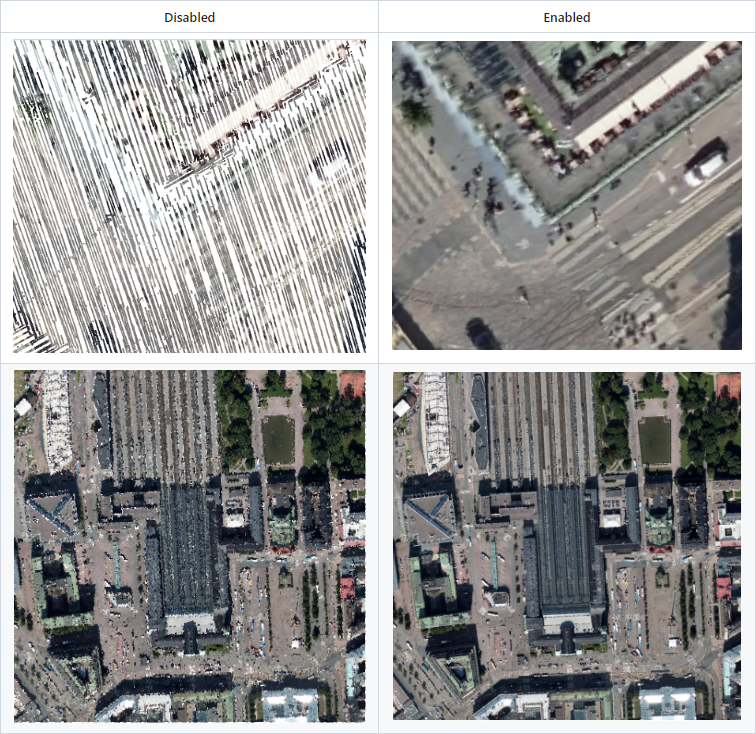
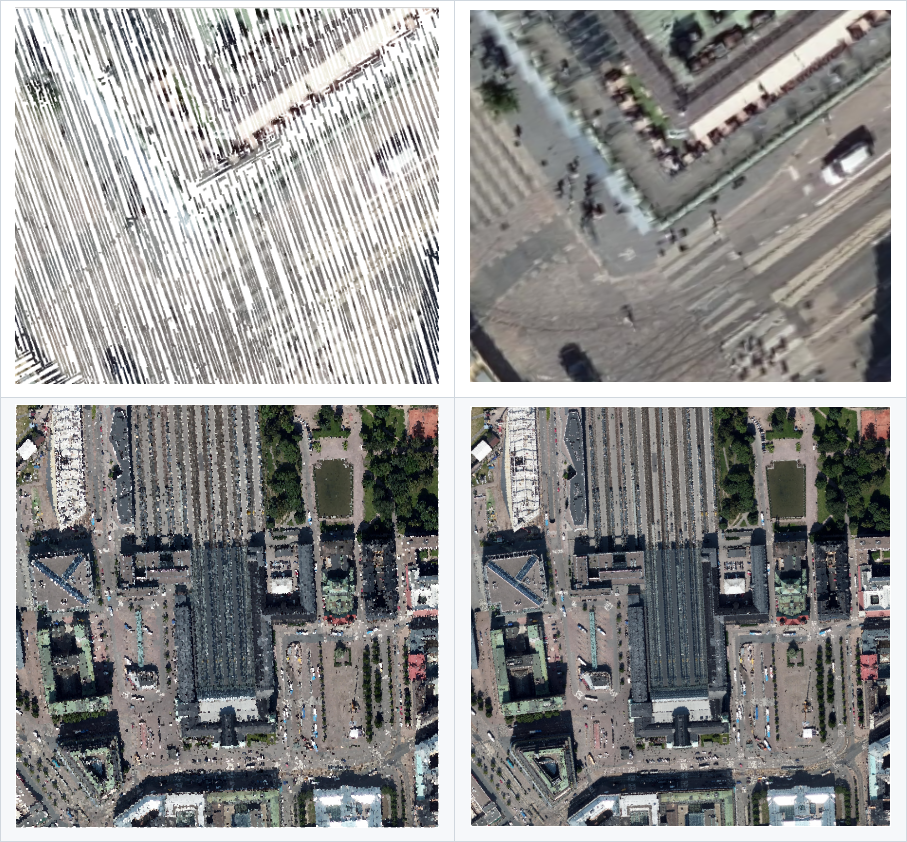
Suggestions without proposed image examples reorder

diff --git a/docs/user_manual/working_with_point_clouds/point_clouds.rst b/docs/user_manual/working_with_point_clouds/point_clouds.rst
@@ -424,34 +424,31 @@ of the point cloud layer in the 2D view. This option allows rendering triangles 
 Each point keeps its color for interpolation in the triangle.
 You can control the horizontal length of computed triangles:
 
-* |checkbox| :guilabel:`Skip triangles longer than` a threshold value:
-  sets in the horizontal plan, the maximum length of a side of the triangles to consider.
-  Note that this can be useful if you want to see actual holes in the data. 
-
-Through the :guilabel:`Shading Renderer` in the :guilabel:`Layer Styling` panel
-you can access the :ref:`Global Map Shading <global_map_shading>` which is also
-supported by this option.
+By checking the |checkbox| :guilabel:`Skip triangles longer than` option and setting up
+the threshold value, you can control the maximum lenght of a side of the triangles
+to consider in the horizontal plan. This can be particularly useful if you want to
+identify actual holes in the data. 
 
 .. _figure_clasification_render_surface_example:
 
 .. figure:: img/clasification_render_surface_example.png
    :align: center
 
-   Example of Render as a surface (Triangulate) option in Classification renderer
+   Example of disabled (left) and enabled (right) Render as a surface (Triangulate) option in Classification renderer
 
 .. _figure_RGB_render_surface_example:
 
 .. figure:: img/RGB_render_surface_example.png
    :align: center
 
-   Example of Render as a surface (Triangulate) option in RGB renderer
+   Example of disabled (left) and enabled (right) Render as a surface (Triangulate) option in RGB renderer
 
 .. _figure_shading_render_surface_example:
 
 .. figure:: img/shading_render_surface_example.png
    :align: center
 
-   Global map shading when `Render as a Surface` is enabled
+   Example of `Render as a Surface` with map shading (left) and with map shading, filtering large triangles (right)
 
 
 Layer Rendering
